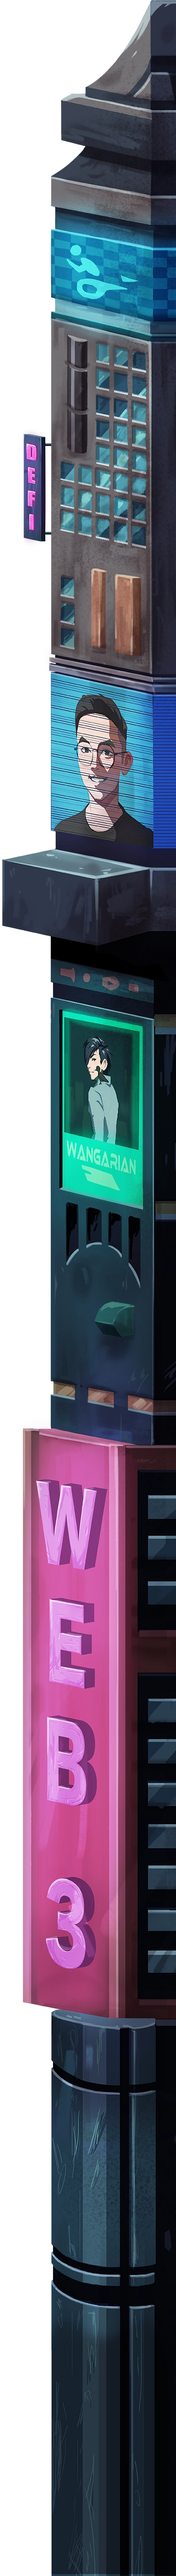
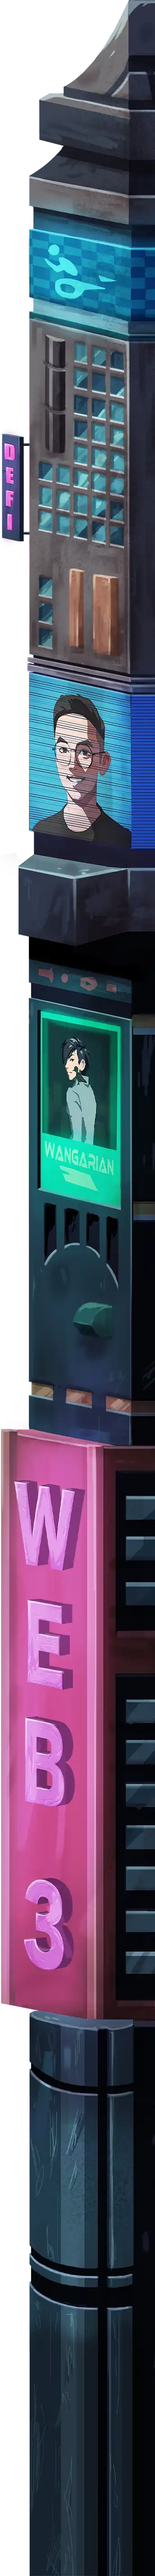
changed up images

diff --git a/src/components/ReactComponent.tsx b/src/components/ReactComponent.tsx
@@ -10,6 +10,7 @@ import GIF from "../assets/podcast.gif";
 import LeftBuilding from "../assets/LeftBuilding.webp";
 import MobileLeftBuilding from "../assets/MobileLeftBuilding.webp";
 import RightBuilding from "../assets/RightBuilding.webp";
+import MobileRightBuilding from "../assets/MobileRightBuilding.webp";
 import rocket from "../assets/lotties/spaceship.json";
 import robot from "../assets/lotties/robot.json";
 import sat from "../assets/lotties/sat.json";
@@ -50,17 +51,24 @@ export default function ReactComponent({
       <div className="hidden absolute sm:flex scale-[4] sm:scale-[2] desktop:scale-125 2xl:scale-100 top-[320vh] sm:top-[200vh] md:top-[200vh] desktop:top-[120vh] 2xl:top-[80vh] -left-36 md:-left-20 desktop:-left-12 w-1/4 desktop:w-1/5 uhd:w-1/6">
         <motion.img style={{ y: lg }} src={LeftBuilding.src} alt="background" />
       </div>
-      <div className="absolute w-1/5 top-[250vh] -left-10 scale-[2.5] sm:hidden">
+      <div className="absolute w-2/3 top-[100vh] -left-32 sm:hidden">
         <motion.img
           style={{ y: lg }}
           src={MobileLeftBuilding.src}
           alt="background"
         />
       </div>
-      <div className="absolute scale-[4] sm:scale-[1.7] desktop:scale-[1.5] 2xl:scale-100 top-[300vh] sm:top-[220vh] md:top-[155vh] desktop:top-[150vh] 2xl:top-[80vh] -right-40 md:-right-20 desktop:-right-12 w-1/4 desktop:w-1/5 uhd:w-1/6 ">
+      <div className="hidden sm:flex absolute scale-[4] sm:scale-[1.7] desktop:scale-[1.5] 2xl:scale-100 top-[300vh] sm:top-[220vh] md:top-[155vh] desktop:top-[150vh] 2xl:top-[80vh] -right-40 md:-right-20 desktop:-right-12 w-1/4 desktop:w-1/5 uhd:w-1/6 ">
         <motion.img
           style={{ y: lg }}
           src={RightBuilding.src}
+          alt="background"
+        />
+      </div>
+      <div className="absolute w-3/5 top-[110vh] -right-36 sm:hidden">
+        <motion.img
+          style={{ y: lg }}
+          src={MobileRightBuilding.src}
           alt="background"
         />
       </div>

diff --git a/src/components/ThesisSection.tsx b/src/components/ThesisSection.tsx
@@ -61,12 +61,17 @@ export default function ThesisSection({
       gsap.to(scrambleTriggerRef.current, {
         scrollTrigger: {
           trigger: scrambleTriggerRef.current,
-          start: "top 30%",
-          end: "bottom 30%",
+          start: "top 35%",
+          end: "bottom 35%",
+          markers: true,
           onEnter: () => {
             setCurrentText(title);
             replay();
           },
+          onLeaveBack: () => {
+            setCurrentText("PRINCIPLE 1");
+            replay();
+          }
         },
       });
     },
